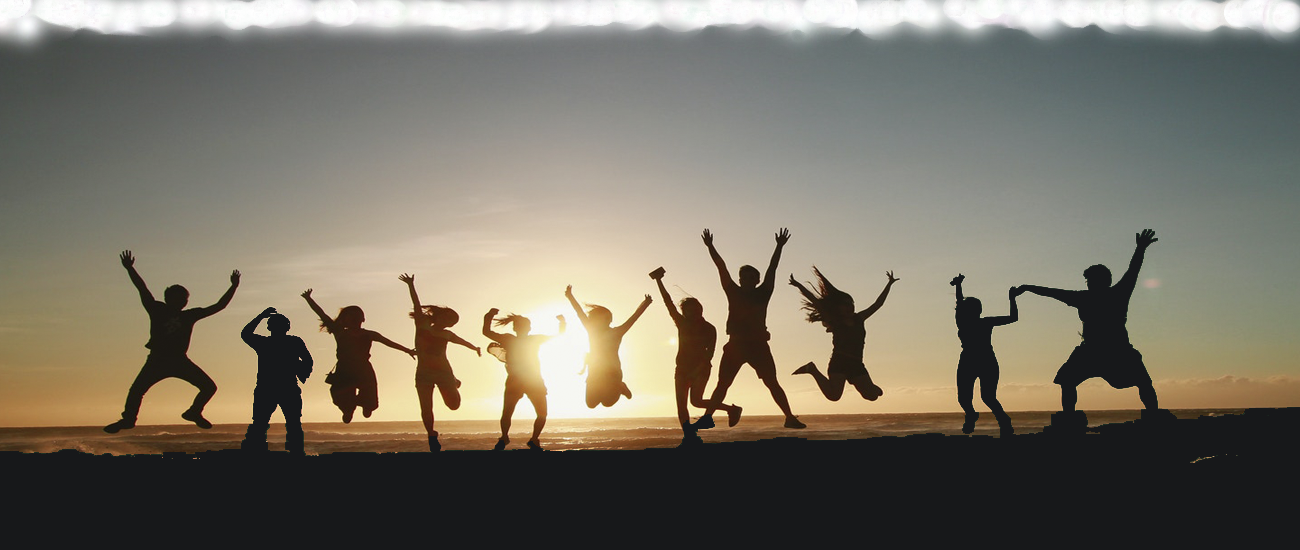
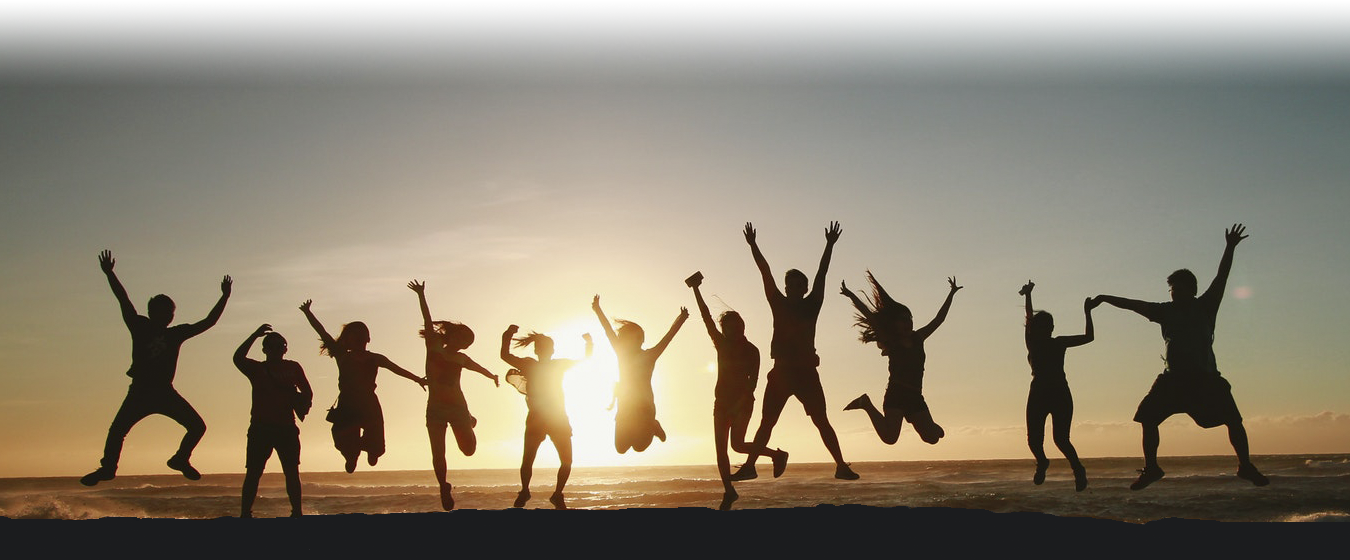
setting up background image

diff --git a/styles/style.css b/styles/style.css
@@ -32,17 +32,19 @@ html {
 }
 
 body {
-  background: #17181a;
+  background: #141519;
   color: #fff;
 }
 
-body, button, a {
-  font: 400 25rem 'Montserrat', sans-serif;
+body,
+button,
+a {
+  font: 400 25rem "Montserrat", sans-serif;
   color: white;
 }
 
 h1 {
-  font: 400 50rem 'Abril Fatface', sans-serif;
+  font: 400 50rem "Abril Fatface", sans-serif;
   color: #fff;
 }
 
@@ -63,7 +65,8 @@ h1 {
       -ms-flex-align: center;
           align-items: center;
   margin: 0 auto;
-  height: 15vh;
+  height: 12vh;
+  max-height: 100px;
 }
 
 #navbar .nav h1 {
@@ -92,18 +95,21 @@ h1 {
 }
 
 #navbar .message {
-  color: #000;
-  height: 85vh;
-  background-position: center;
+  min-height: 90vh;
+  background-position-y: bottom;
+  background-position-x: center;
   background-size: cover;
   background-repeat: no-repeat;
+  background-image: url("/assets/bg.png");
 }
 
 #navbar .message p {
+  text-align: center;
   width: 70vw;
   margin: 0 auto;
-  padding: 50rem 0;
+  padding: 110rem 0;
   font: 600 30rem "Montserrat", sans-serif;
+  color: #fff;
 }
 
 #cards {
@@ -117,6 +123,7 @@ h1 {
   min-height: 100vh;
   margin: 0 auto;
   width: 80%;
+  max-width: 1400px;
   display: -webkit-box;
   display: -ms-flexbox;
   display: flex;
@@ -124,7 +131,7 @@ h1 {
       -ms-flex-align: center;
           align-items: center;
   color: white;
-  background-color: #17181a;
+  background-color: #141519;
 }
 
 #cards .img-container {
@@ -286,7 +293,7 @@ h1 {
   position: absolute;
   width: 100%;
   height: 110%;
-  background: #17181a;
+  background: #141519;
   left: 0;
   top: -10%;
   -webkit-transform: translateX(100%);
@@ -311,6 +318,7 @@ body.hide {
           align-items: center;
   background: #fff;
   height: 13vh;
+  max-height: 100px;
   color: #000;
 }
 
@@ -370,7 +378,7 @@ body.hide {
     font-weight: 400;
     line-height: 1.3;
     letter-spacing: 2rem;
-    padding: 80rem 20rem;
+    padding: 110rem 20rem;
     margin: 0 auto;
   }
   #cards .slide {

diff --git a/styles/_global.scss b/styles/_global.scss
@@ -1,38 +1,40 @@
-@import url('https://fonts.googleapis.com/css2?family=Abril+Fatface&family=Kumbh+Sans:wght@400;700&family=Montserrat:wght@400;500;600;700&display=swap');
+@import url("https://fonts.googleapis.com/css2?family=Abril+Fatface&family=Kumbh+Sans:wght@400;700&family=Montserrat:wght@400;500;600;700&display=swap");
 
-:root{
-    font-size: 6.67%;
+:root {
+  font-size: 6.67%;
 }
-*{
-    box-sizing: border-box;
-    padding: 0;
-    margin: 0;
+* {
+  box-sizing: border-box;
+  padding: 0;
+  margin: 0;
 }
-html{
-    scroll-behavior: smooth;
+html {
+  scroll-behavior: smooth;
 }
 ::-webkit-scrollbar {
-    width: 15px;
-    &-track {
-      background: #3a3a3a;  
-    }
-    &-thumb {
-      background: #1f1f1f;
-      border-radius: 10px;
-      &:hover {
-        background: #0c0c0c;
-      }
+  width: 15px;
+  &-track {
+    background: #3a3a3a;
+  }
+  &-thumb {
+    background: #1f1f1f;
+    border-radius: 10px;
+    &:hover {
+      background: #0c0c0c;
     }
   }
-body{
-    background: #17181a;
-    color: #fff;
 }
-body, button, a{
-    font: 400 25rem 'Montserrat', sans-serif;
-    color: white;
+body {
+  background: #141519;
+  color: #fff;
 }
-h1{
-    font: 400 50rem 'Abril Fatface', sans-serif;
-    color: #fff;
+body,
+button,
+a {
+  font: 400 25rem "Montserrat", sans-serif;
+  color: white;
+}
+h1 {
+  font: 400 50rem "Abril Fatface", sans-serif;
+  color: #fff;
 }

diff --git a/styles/_navbar.scss b/styles/_navbar.scss
@@ -7,7 +7,8 @@
     justify-content: space-between;
     align-items: center;
     margin: 0 auto;
-    height: 15vh;
+    height: 12vh;
+    max-height: 100px;
     h1 {
       font-weight: 700;
       font-family: "Kumbh Sans", sans-serif;
@@ -31,17 +32,19 @@
     }
   }
   .message {
-    color: #000;
-    height: 85vh;
-    background-position: center;
+    min-height: 90vh;
+    background-position-y: bottom;
+    background-position-x: center;
     background-size: cover;
     background-repeat: no-repeat;
-    // background-image: url(../assets/images/bg.png);
+    background-image: url('/assets/bg.png');
     p {
+      text-align: center;
       width: 70vw;
       margin: 0 auto;
-      padding: 50rem 0;
+      padding: 110rem 0;
       font: 600 30rem "Montserrat", sans-serif;
+      color: #fff;
     }
   }
 }

diff --git a/styles/_cards.scss b/styles/_cards.scss
@@ -7,10 +7,11 @@
     min-height: 100vh;
     margin: 0 auto;
     width: 80%;
+    max-width: 1400px;
     display: flex;
     align-items: center;
     color: white;
-    background-color: #17181a;
+    background-color: #141519;
   }
   .img-container {
     position: relative;
@@ -126,7 +127,7 @@
     position: absolute;
     width: 100%;
     height: 110%;
-    background: #17181a;
+    background: #141519;
     left: 0;
     top: -10%;
     transform: translateX(100%);

diff --git a/index.html b/index.html
@@ -16,8 +16,7 @@
       </div>
       <div class="message">
         <p>
-          Até quando vamos reclamar da ação do outro, sem fazer o mínimo que
-          podemos? O ato de fazer o bem, também te faz bem e a mudança sempre
+          O ato de fazer o bem também te faz bem e a mudança sempre
           deve começar por VOCÊ.
         </p>
       </div>

diff --git a/styles/_media-query.scss b/styles/_media-query.scss
@@ -17,7 +17,7 @@
         font-weight: 400;
         line-height: 1.3;
         letter-spacing: 2rem;
-        padding: 80rem 20rem;
+        padding: 110rem 20rem;
         margin: 0 auto;
       }
     }

diff --git a/styles/_footer.scss b/styles/_footer.scss
@@ -4,6 +4,7 @@
   align-items: center;
   background: #fff;
   height: 13vh;
+  max-height: 100px;
   color: #000;
   .content {
     width: 80%;
